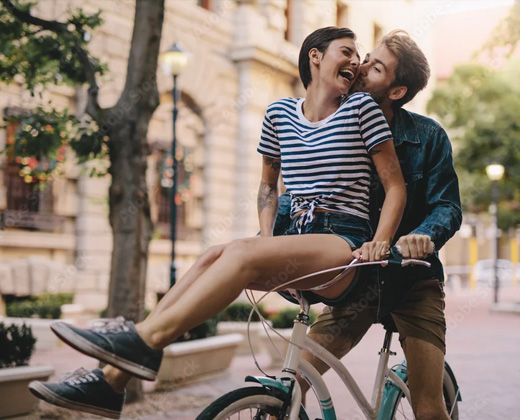
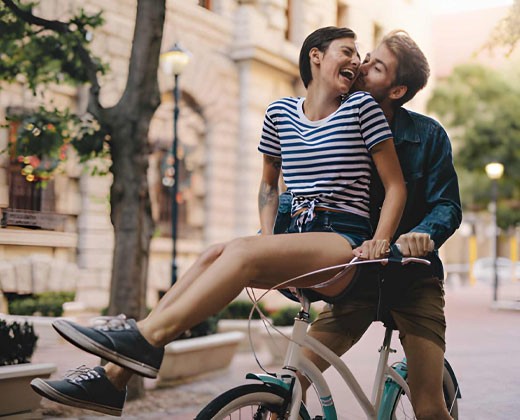
[Jacek][New] Uzupelnienie strony TEMPO

diff --git a/resources/views/front/developro/investment/tempo.blade.php b/resources/views/front/developro/investment/tempo.blade.php
@@ -270,7 +270,7 @@
                     </div>
                 </div>
                 <div class="col-12 col-xl-4">
-                    <img src="{{ asset('images/tempo/badz-eko.jpg') }}" alt="Zarówka, zielona trawa, eko" width="520" height="420" class="m-auto"/>
+                    <img src="{{ asset('images/tempo/badz-eko.jpg?v=04122025') }}" alt="Zarówka, zielona trawa, eko" width="520" height="420" class="m-auto"/>
                     <div class="p-0 p-sm-4">
                         <h3>#bądź<span style="color: #e03e2d;">Eko</span></h3>
                         <p class="text-justify">Z myślą o ekologii i zdrowym trybie życia  zaprojektowaliśmy ogromne rowerownie z bezpośrednim wyjazdem na ścieżkę rowerową, wzdłuż ul. Sikorskiego. Możesz więc w wygodny sposób korzystać z wielokilometrowych ścieżek w mieście i na terenie województwa.</p>
